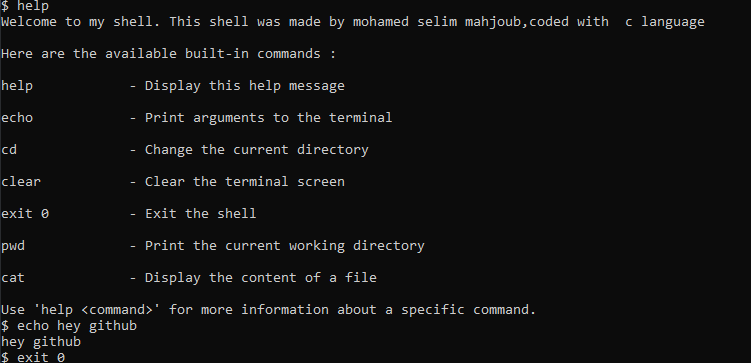
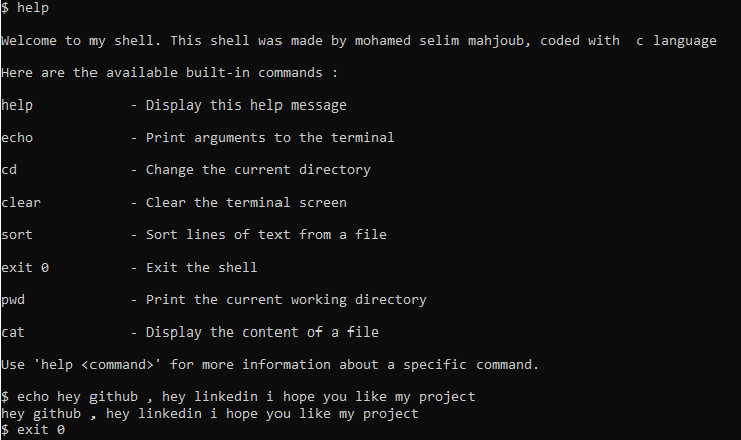
commited

diff --git a/README.md b/README.md
@@ -1,12 +1,12 @@
 # Simple Shell in C
 
-A minimalistic shell implementation in C that supports executing built-in commands (`echo`, `type`, `exit`, `pwd`, `cd`, `clear`, `cat`,`help`) and external programs located via the `PATH` environment variable. This project demonstrates how to create a basic command-line interface (CLI) using POSIX-compliant system calls like `fork`, `execv`, and `waitpid`.
+A minimalistic shell implementation in C that supports executing built-in commands (`echo`, `type`, `exit`, `pwd`, `cd`, `clear`, `cat`,`help`,`sort`) and external programs located via the `PATH` environment variable. This project demonstrates how to create a basic command-line interface (CLI) using POSIX-compliant system calls like `fork`, `execv`, and `waitpid`.
 
 ---
 
 ## Features
 
-- **Built-in Commands**: `echo`, `type`, `exit` , `pwd`, `cd`, `clear`, `cat`, `help`.
+- **Built-in Commands**: `echo`, `type`, `exit` , `pwd`, `cd`, `clear`, `cat`, `help`,`sort`.
 - **External Program Execution**: Executes programs from `PATH` with arguments.
 - **POSIX-Compliant**: Works on Unix-like systems (Linux, macOS).
 
